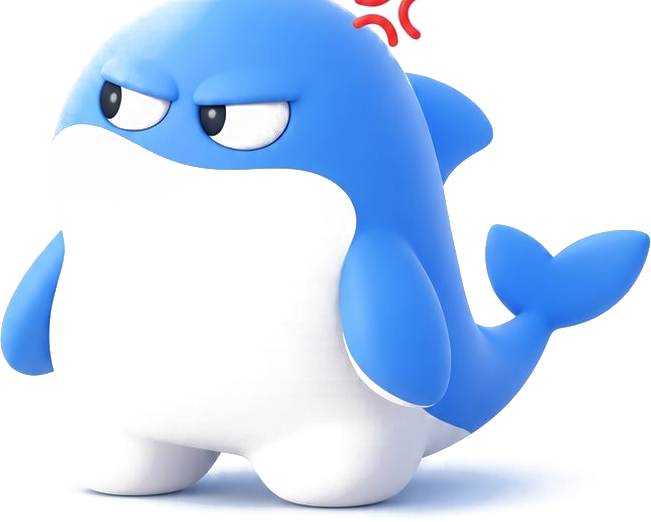
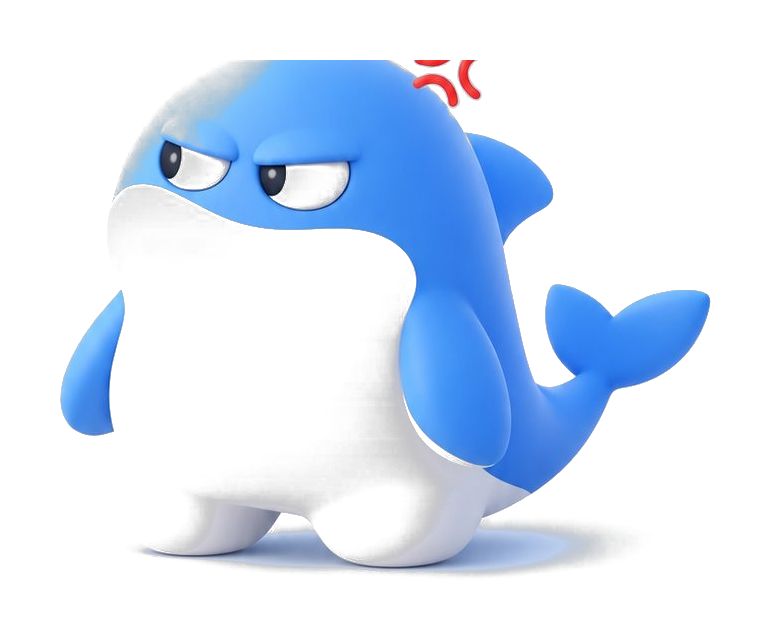
Empty state: smaller padded whale, contain fit
- Whale artwork re-cut with transparent padding on all sides so the
  head no longer touches the canvas edge; display size reduced
  200 -> 140pt and contentFit switched to contain so nothing can clip.

diff --git a/src/cookbooks/fable/screens/Inbox.tsx b/src/cookbooks/fable/screens/Inbox.tsx
@@ -529,7 +529,7 @@ export default function ChatsScreen() {
               <Image
                 source={require("../../../../assets/cookbooks/fable/empty-whale.png")}
                 style={styles.emptyWhale}
-                contentFit="cover"
+                contentFit="contain"
               />
               <Text style={[styles.emptyTitle, { color: theme.label }]}>
                 No chats yet
@@ -598,8 +598,8 @@ const styles = StyleSheet.create({
     paddingHorizontal: 48,
   },
   emptyWhale: {
-    width: 200,
-    aspectRatio: 651 / 522,
+    width: 140,
+    aspectRatio: 771 / 642,
   },
   emptyTitle: {
     fontSize: 20,
